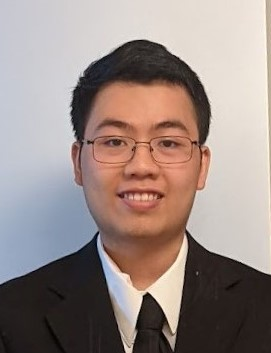
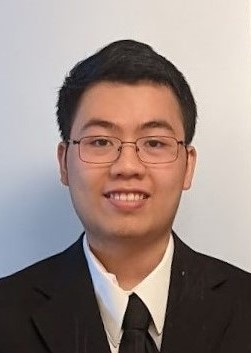
tweaked

diff --git a/index.html b/index.html
@@ -24,14 +24,18 @@
             </p>
 
             <div id="#about">
-                <img src="./images/polo.jpg" style="width:200px;">
+                <img src="./images/suit.jpg" style="width:200px;">
             </div>
     
             <div id="#contact">
                 <b>E-mail:</b> nguyen.tri.d.qu@gmail.com
                 <br>
                 <b>Phone:</b> (972) 415-9363
+                <br>
+                <b>LinkedIn: </b> <a href="https://www.linkedin.com/in/tri-d-nguyen/">Tri Nguyen</a>
             </div>
+
+            <hr>
             
             <h3>
                 About
@@ -40,8 +44,8 @@
             <p>
                 My name is Tri Nguyen. 
                 I'm a Junior studying Computer Science at UT Dallas under the SFS scholarship. 
-                I am interested in Cybersecurity, particularly software security and vulnerability analysis. 
-                I am looking for cybersecurity internship roles with the US governments to learn more and to bring my skills in the effort to protect the nation's cyber infrastructure.
+                I am interested in cybersecurity, particularly software security and vulnerability analysis. 
+                I am looking for cybersecurity internship roles with the US government to learn more and to use my skills in the effort to protect the nation's cyber infrastructure.
             </p>
     
             <br>
@@ -83,7 +87,8 @@
             <br>
             <br>
             <br>
-            <br>a
+            <br>
+            Updated by Tri Nguyen.
     
         </div>
     </body>

diff --git a/css/styles.css b/css/styles.css
@@ -26,13 +26,14 @@ h3 {
 .main {
   margin-left: 15%;
   margin-right: 15%;
-  margin-top: 40pt;
+  margin-top: 10pt;
   background-color: white;
   padding: 15pt;
 }
 
 body {
   background-color: grey;
+  font-family: sans-serif;
 }
 
 #topnavbar a {
